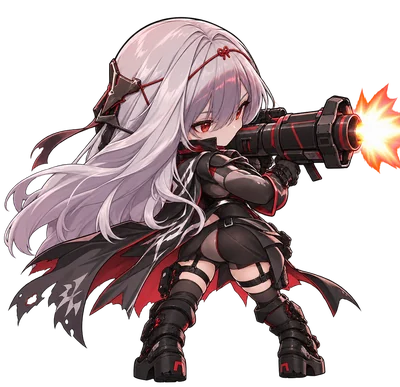
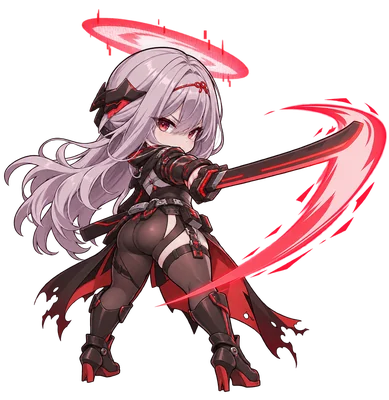
fix: redraw replay SDs from in-game poses with each nikke's real weapon
The first per-character SDs were drawn from portraits only and all held a
generic gun. They are redrawn standing, combining the full-body art with
the owner's in-game shooting (back view) and cover (front view) poses:
라피 : 레드 후드 heavy MG with box magazine and beret, 홍련 : 흑영 long blade
with her red holo halo, 렘 light-blue gatling with a morning-star rear body,
아인 white sniper rifle with Near Feathers. Adds 스노우 화이트 : 헤비암즈
(shoulder-mounted cannons, empty hands).

diff --git a/site/src/notices.ts b/site/src/notices.ts
@@ -21,6 +21,7 @@ export interface Notice {
 
 /** 최신이 맨 앞. */
 export const NOTICES: Notice[] = [
+  {id:'2026-09-23-replay-sd-weapons',date:'2026-09-23',title:'전투 결과 재생 — 캐릭터 SD를 실제 무기·자세로 다시 그림',items:[{tag:'고침',text:'캐릭터 SD가 모두 비슷한 총을 들고 있던 것을 고쳤습니다. 인게임 사격·엄폐 자세를 바탕으로 라피 : 레드 후드(대형 기관총), 홍련 : 흑영(붉은 헤일로와 장검), 렘(철퇴 모양 개틀링), 아인(저격총과 니어 페더)을 다시 그렸습니다. 사격은 뒷모습, 재장전은 화면을 보는 서 있는 자세입니다.'},{tag:'개선',text:'스노우 화이트 : 헤비암즈 전용 SD를 추가했습니다. 어깨의 거대 무장으로 사격합니다.'}]},
   {id:'2026-09-23-replay-sd',date:'2026-09-23',title:'전투 결과 재생 — 캐릭터 SD 추가',items:[{tag:'개선',text:'홍련 : 흑영, 렘, 아인의 전용 SD를 넣었습니다(라피 : 레드 후드 포함 4명). 사격은 뒷모습, 재장전은 화면을 보는 앞모습입니다. 다른 니케는 계속 공통 회색 SD로 나옵니다.'}]},
   {id:'2026-09-23-replay-patterns',date:'2026-09-23',title:'전투 결과 재생 — 보스 패턴 · 디버프 · 차징 · 캐릭터 딜',items:[{tag:'개선',text:'재생 창이 준비되면 바로 재생합니다. 보스의 족자(사라짐·평타 빗나감), 속성 저지(속성 색 방패), 코어 노출, 방어력 배율, 적정거리, 샷건 표적 크기, 파츠 파괴가 화면과 진행 바에 표시됩니다.'},{tag:'새 기능',text:'보스에게 걸린 버프·디버프가 보스 위에 아이콘으로 뜨고, 보스를 누르면 목록과 남은 시간을 볼 수 있습니다. 차지 무기 니케는 머리 위에 차징 %가 오르며, 인게임처럼 풀차지 배율(기본 배율 + 차지 대미지 증가)까지 올라갑니다. 초상화 카드 아래에는 그 순간까지의 캐릭터별 딜이 나옵니다.'},{tag:'개선',text:'재장전 자세가 화면 쪽을 봅니다. 라피 : 레드 후드 전용 SD를 넣었습니다(다른 니케는 공통 회색 SD).'}]},
   {id:'2026-09-23-item-icons',date:'2026-09-23',title:'재화 아이콘',items:[{tag:'개선',text:'스킬칩 계산기 결과표의 매뉴얼과 추가로 필요한 코드 매뉴얼 목록에 아이템 아이콘을 붙였습니다. 코드 매뉴얼은 속성별 색으로 구분됩니다. 육성효율의 모듈 가성비·옵작 가이드·오버로드작 시뮬레이션의 모듈 수 앞에도 커스텀 모듈 아이콘을 넣었습니다.'}]},

diff --git a/site/src/sd-ids.ts b/site/src/sd-ids.ts
@@ -1,10 +1,15 @@
 /**
  * 전투 결과 재생의 캐릭터별 SD — 정식 명칭 → 게임 ID(`scraper/nikke_scraped.json`의 `id`).
  * 그림은 `assets/replay/sd/<ID>-shoot.webp`·`<ID>-reload.webp`. 여기 없거나 그림이 없으면 회색 SD다.
+ *
+ * 두 장 모두 **서 있다** — 인게임 사격·엄폐 자세(사용자 제공 스크린샷)와 전신 일러스트를 종합해,
+ * 사격은 뒷모습으로 무기를 쓰고 재장전(엄폐)은 화면을 본다. 무기는 캐릭터마다 다르다
+ * (렘은 철퇴 모양 개틀링, 홍련 : 흑영은 장검, 스노우 화이트 : 헤비암즈는 어깨 무장).
  */
 export const SD_IDS: Record<string, number> = {
   '라피 : 레드 후드': 16,
   '홍련 : 흑영': 225,
   '렘': 820,
   '아인': 391,
+  '스노우 화이트 : 헤비암즈': 471,
 };

diff --git a/site/src/battle-replay.test.ts b/site/src/battle-replay.test.ts
@@ -128,7 +128,7 @@ describe('시각 → 상태', () => {
       expect(spriteFor(name, 'shoot')).not.toBe(DEFAULT_SD.shoot);
       expect(spriteFor(name, 'reload')).not.toBe(DEFAULT_SD.reload);
     }
-    expect(Object.keys(SD_IDS)).toEqual(expect.arrayContaining(['라피 : 레드 후드', '홍련 : 흑영', '렘', '아인']));
+    expect(Object.keys(SD_IDS)).toEqual(expect.arrayContaining(['라피 : 레드 후드', '홍련 : 흑영', '렘', '아인', '스노우 화이트 : 헤비암즈']));
   });
 
   it('캐릭터별 SD가 있으면 그걸, 없으면 회색 자리표시자', () => {
